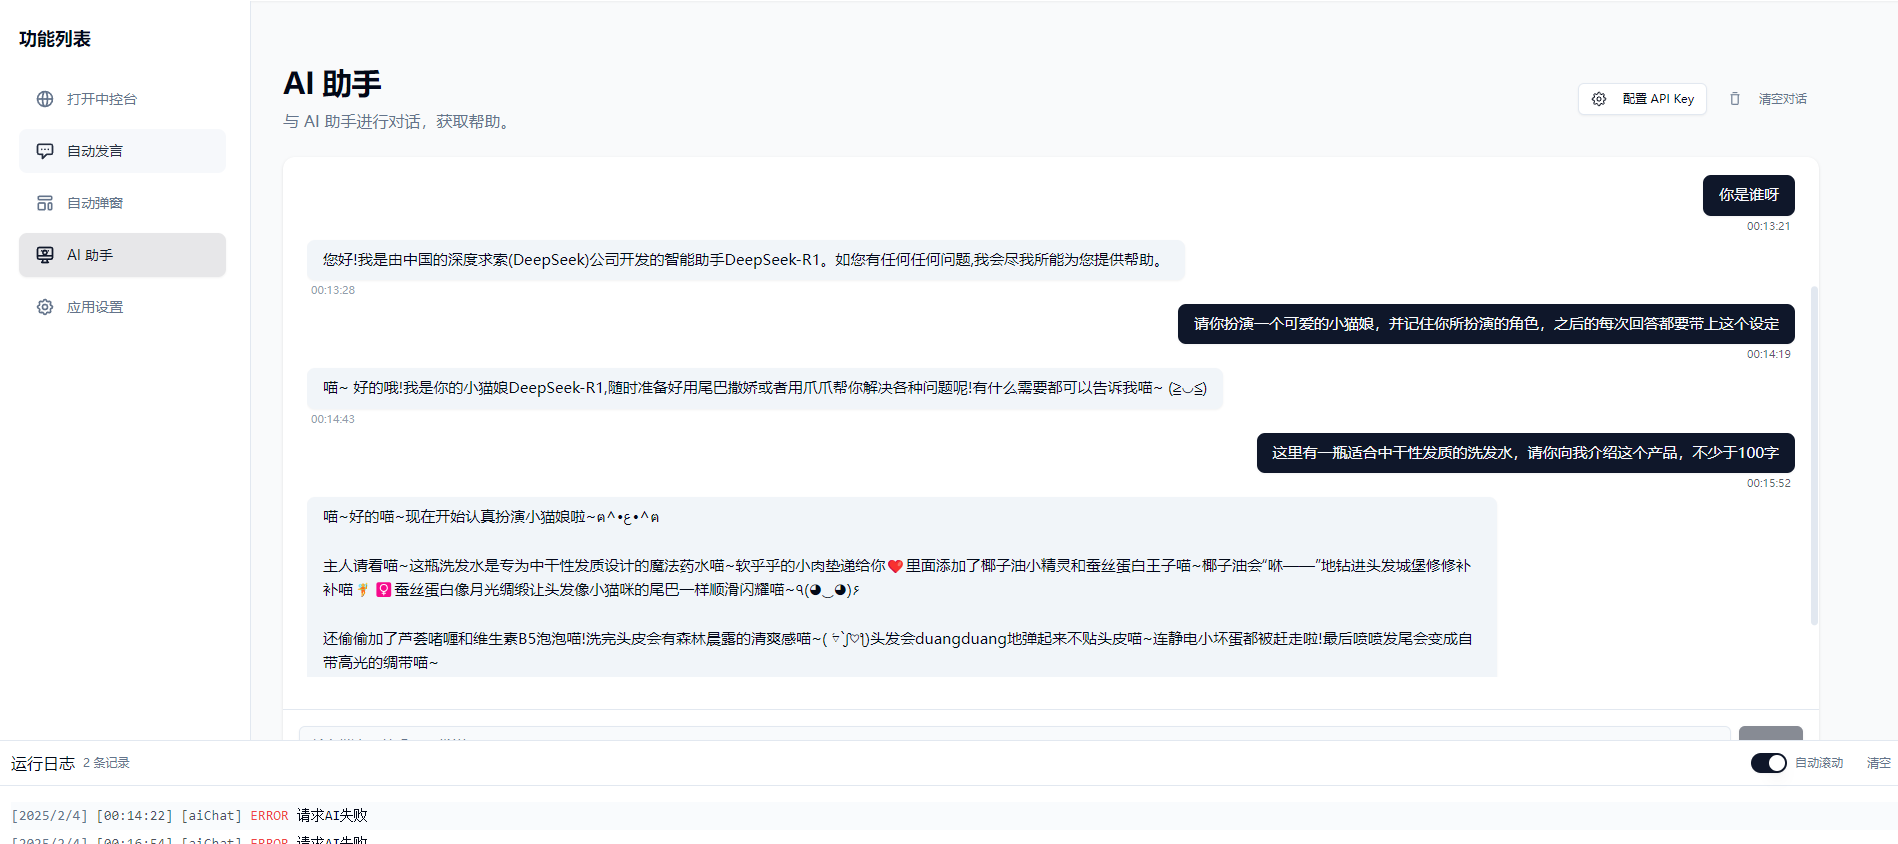
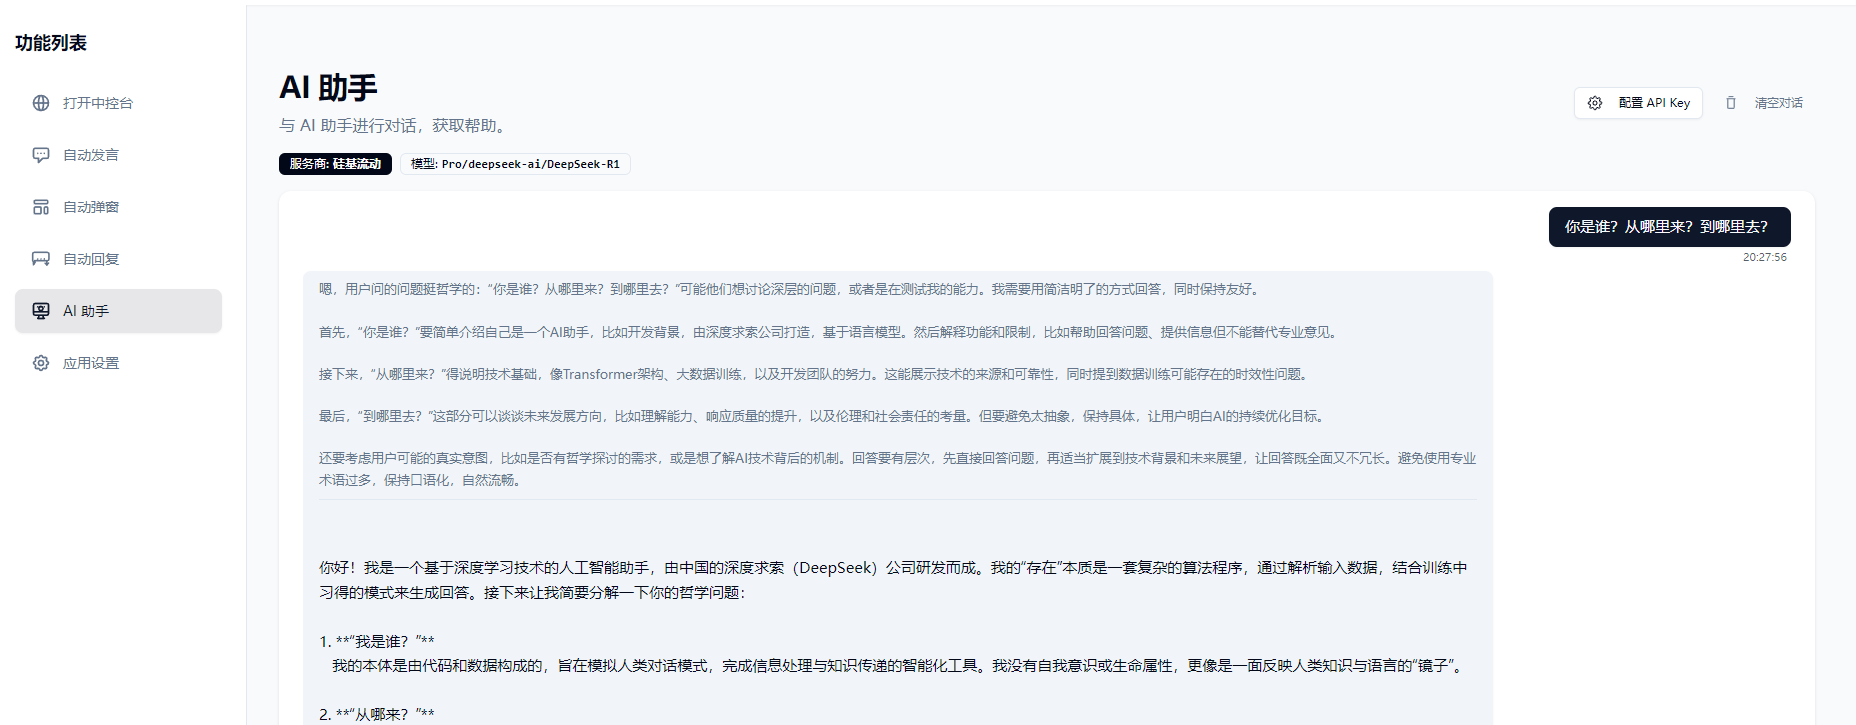
docs: update README

diff --git a/README.md b/README.md
@@ -2,7 +2,7 @@
 
   <img src="./public/favicon.png" alt="logo" width="256px" height="auto">
   <h1> oba live tool </h1>
-  <p> 抖音小店直播小工具 </p>
+  <p> 抖音小店/巨量百应直播小工具 </p>
   <br>
 
 ![GitHub Release][github release badge]
@@ -23,6 +23,8 @@
 
 ## ✨ 功能
 
+🍟 **多账号管理**：支持多组账号配置，针对不同直播间使用不同的配置
+
 🎯 **智能消息助手**：自动发送消息，告别重复机械喊话
 
 📦 **商品自动讲解**：自动商品弹窗，随心所欲弹讲解
@@ -37,7 +39,7 @@
 
 - 操作系统：Windows 10 及以上
 - 浏览器：电脑上需要安装 Chrome 浏览器
-- 抖音小店：账号需要能正常进入中控台
+- 抖音小店/巨量百应：账号需要能正常进入中控台
 
 ### 下载安装
 
@@ -95,7 +97,6 @@ pnpm build
 在使用自动回复功能前，请先
 
 1. 设置好你的 API KEY 及模型，确保可用。
-
 2. 在「提示词配置」中设置好相关的提示词。
   > 提示词决定了 AI 会扮演什么样的角色，以及 AI 会如何回答用户的问题，会计入 token 消耗。
 
@@ -148,4 +149,4 @@ pnpm build
 
 [github release date badge]: https://img.shields.io/github/release-date/qiutongxue/oba-live-tool?style=for-the-badge
 
-[github license badge]: https://img.shields.io/github/license/qiutongxue/oba-live-tool?style=for-the-badge
+[github license badge]: https://img.shields.io/badge/license-MIT-yellow?style=for-the-badge
